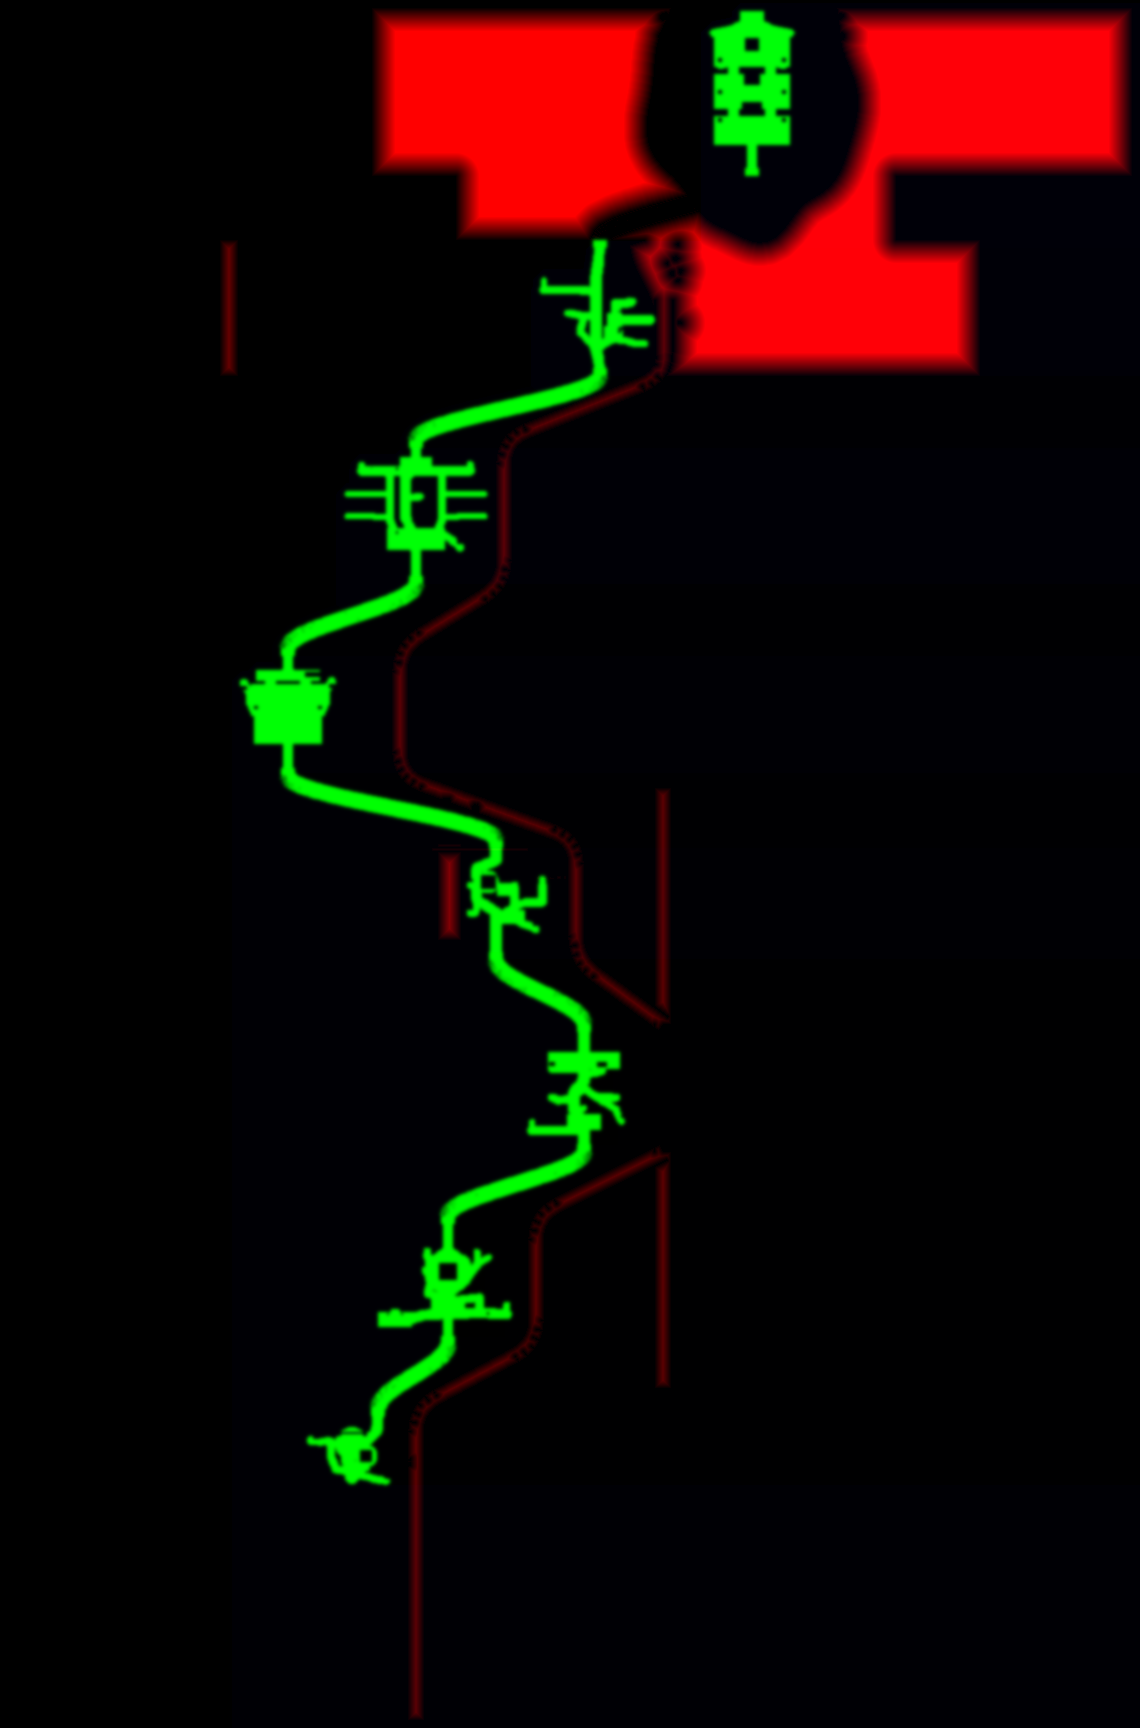
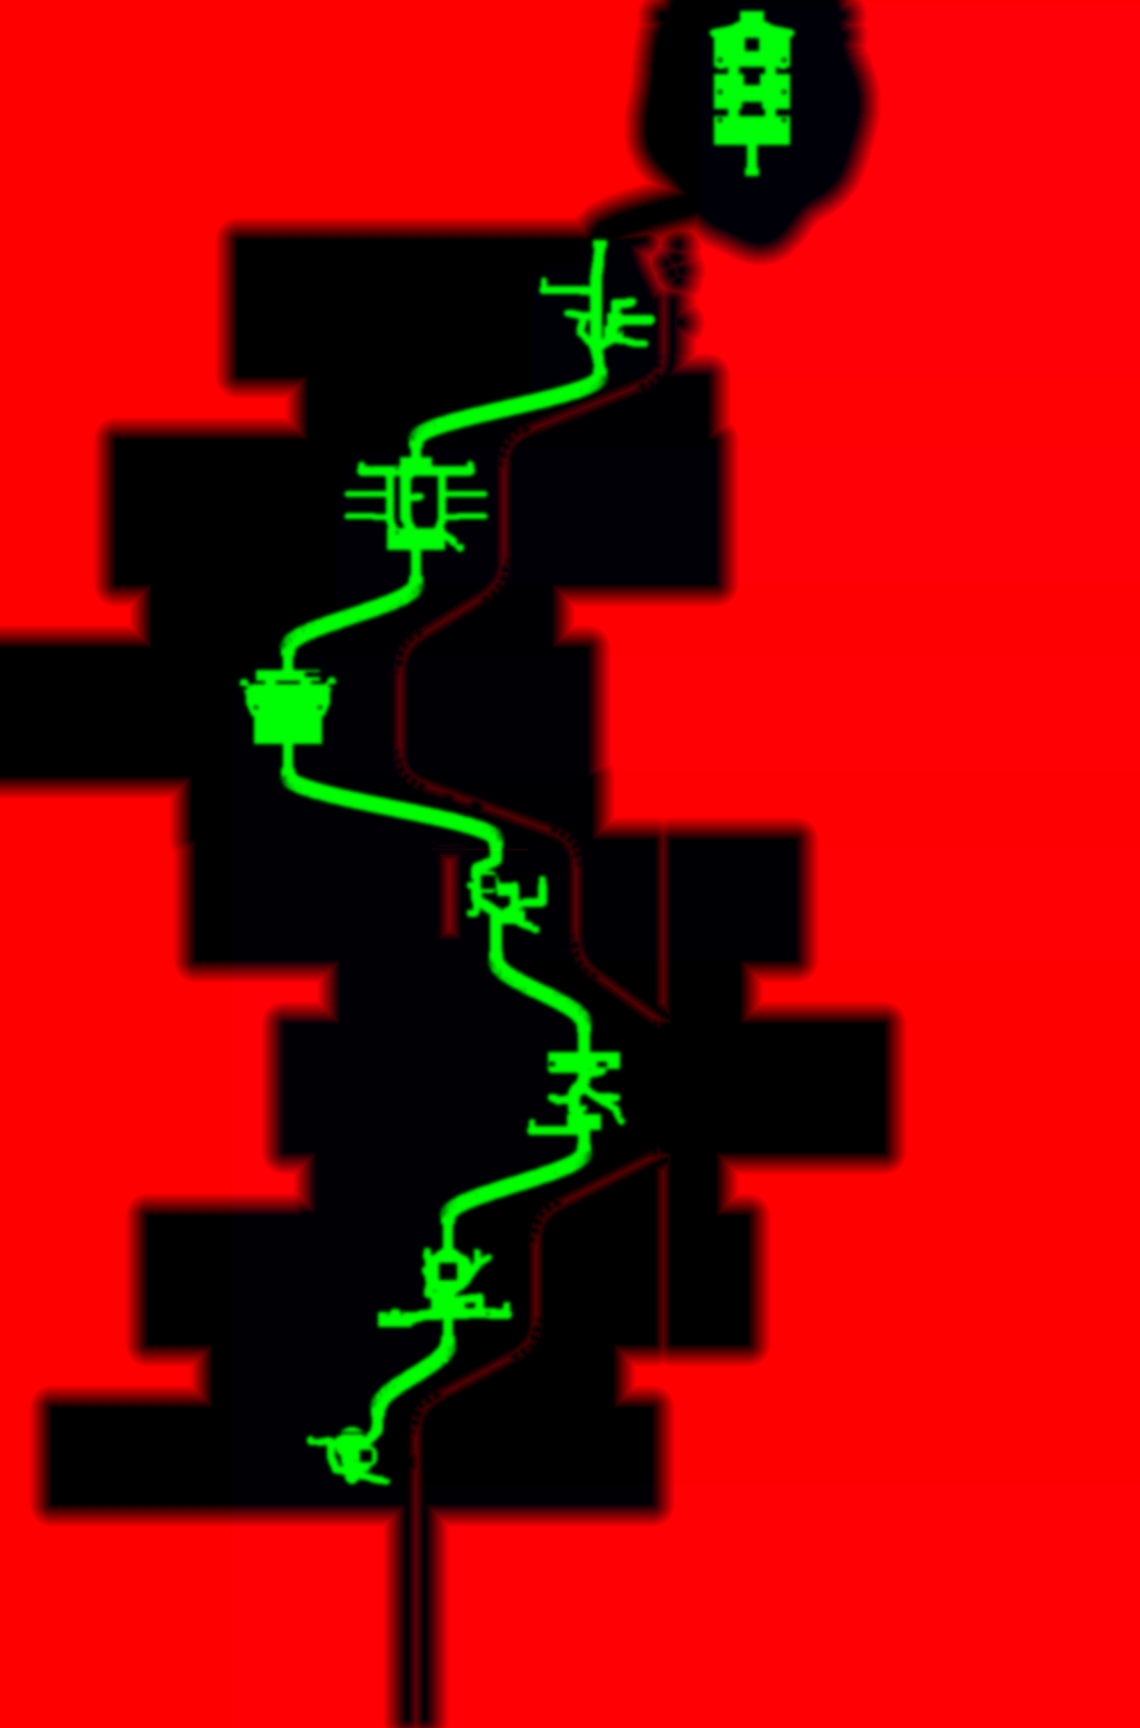
El mar del Faro sin franjas blancas ni matas flotantes
La orilla horneada trataba como costa la franja sin agua ni tierra al borde del mapa, y el
mar abierto dibujaba espuma en una línea recta a ambos lados del islote. El prado de fondo
llegaba hasta el mar y la flora crecía sobre él: se recorta 20 m antes y no se siembra
nada al norte del Faro fuera de su tierra.

diff --git a/experiments/playcanvas/src/world.js b/experiments/playcanvas/src/world.js
@@ -122,7 +122,8 @@ export class PlayCanvasWorld {
     // The far countryside continues behind the authored region surfaces.
     // Eastern slopes south of the lake, so the valley never ends in the clear colour.
     {const e=new Entity('Laderas del este'),m=new StandardMaterial();m.diffuse=color('#b5bba0');m.diffuseMap=await surface(this.app,'ground');m.diffuseMapTiling=new Vec2(37,78);m.update();e.addComponent('render',{type:'plane'});e.render.material=m;e.setPosition(122.5,-.15,-63);e.setLocalScale(155,1,326);this.regions.get('landscape').root.addChild(e);}
-    for(const [z,depth] of [[-95,390]]){const e=new Entity('Laderas del reino');e.addComponent('render',{type:'plane'});const m=new StandardMaterial();m.diffuse=color('#b5bba0');m.diffuseMap=await surface(this.app,'ground');m.diffuseMapTiling=new Vec2(42,65);m.update();e.render.material=m;e.setPosition(-42.5,-.15,z);e.setLocalScale(175,1,depth);this.regions.get('landscape').root.addChild(e);}
+    // It stops 20 m short of the Faro's sea: past there only the open water remains.
+    for(const [z,depth] of [[-85,370]]){const e=new Entity('Laderas del reino');e.addComponent('render',{type:'plane'});const m=new StandardMaterial();m.diffuse=color('#b5bba0');m.diffuseMap=await surface(this.app,'ground');m.diffuseMapTiling=new Vec2(42,65);m.update();e.render.material=m;e.setPosition(-42.5,-.15,z);e.setLocalScale(175,1,depth);this.regions.get('landscape').root.addChild(e);}
     // Open sea to the horizon north of the Faro: the authored planes stop 20 m past the islet.
     {const e=new Entity('Mar abierto'),m=makeWater(new StandardMaterial());bindShore(m,shore,true,1);e.addComponent('render',{type:'plane'});e.render.material=m;e.render.castShadows=false;e.setPosition(75,-.45,-540);e.setLocalScale(760,1,530);this.regions.get('landscape').root.addChild(e);this.waters.push(m);}
     await placeDressing(this);await raiseRelief(this);await sowFlora(this);await buildHomes(this,this.kit);

diff --git a/experiments/playcanvas/src/flora.js b/experiments/playcanvas/src/flora.js
@@ -51,6 +51,7 @@ export async function sowFlora(world){
   const batches={a:{positions:[],uvs:[],colors:[],indices:[]},b:{positions:[],uvs:[],colors:[],indices:[]}};
   const claimed=new Set();let count=0;
   const exteriors=Object.keys(AREAS).filter(isExterior).map(id=>{const [ox,oz]=world.data.areas[id].offset,[tw,td]=travelBounds(id);return {id,ox,oz,tw,td};});
+  const seaLine=world.data.areas.lighthouse.offset[1]-8;
   const corridor=(X,Z)=>exteriors.some(a=>inTravelCorridor(a.id,X-a.ox,Z-a.oz,-.6));
   const walkable=(X,Z)=>exteriors.some(a=>{const x=X-a.ox,z=Z-a.oz;return Math.abs(x)<=a.tw/2&&Math.abs(z)<=a.td/2&&walkableTerrain(a.id,x,z);});
   const border=(X,Z)=>!walkable(X,Z)&&[[1.1,0],[-1.1,0],[0,1.1],[0,-1.1],[.8,.8],[-.8,.8],[.8,-.8],[-.8,-.8]].some(([dx,dz])=>walkable(X+dx,Z+dz));
@@ -66,6 +67,7 @@ export async function sowFlora(world){
       const shoreline=s.water>0&&s.water<.07,inside=Math.abs(x)<aw/2-.5&&Math.abs(z)<ad/2-.5;
       if(s.water>0&&!shoreline)continue;
       if(corridor(X,Z))continue; // los caminos entre lugares quedan libres
+      if(Z<seaLine&&!walkable(X,Z)&&!border(X,Z))continue; // al norte del Faro solo hay mar
       if(near(x,z,.05))continue;
       if(!shoreline&&s.water===0&&border(X,Z)){
         // Dos o tres matas altas por celda, apretadas, para que el borde se lea como seto.
